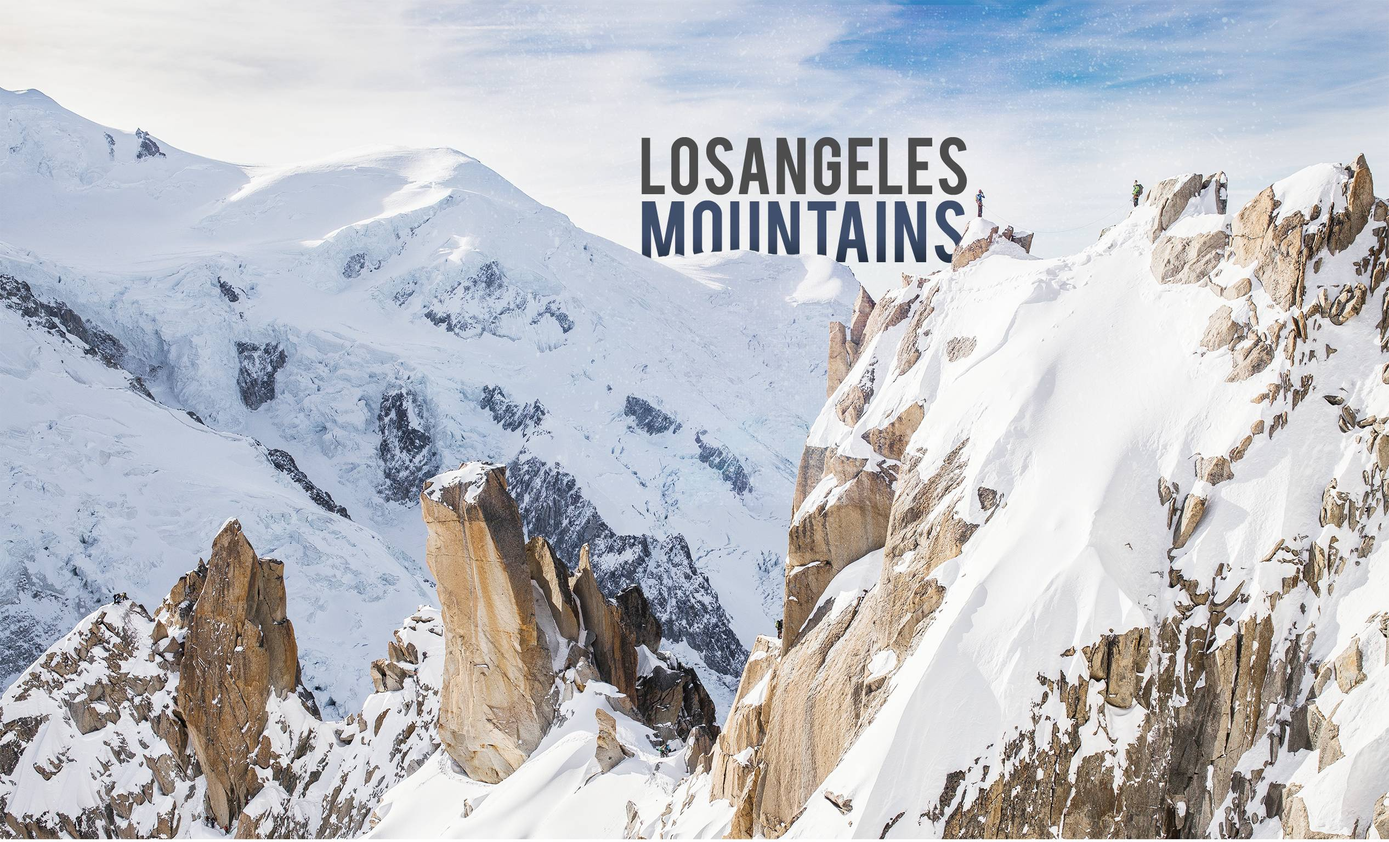
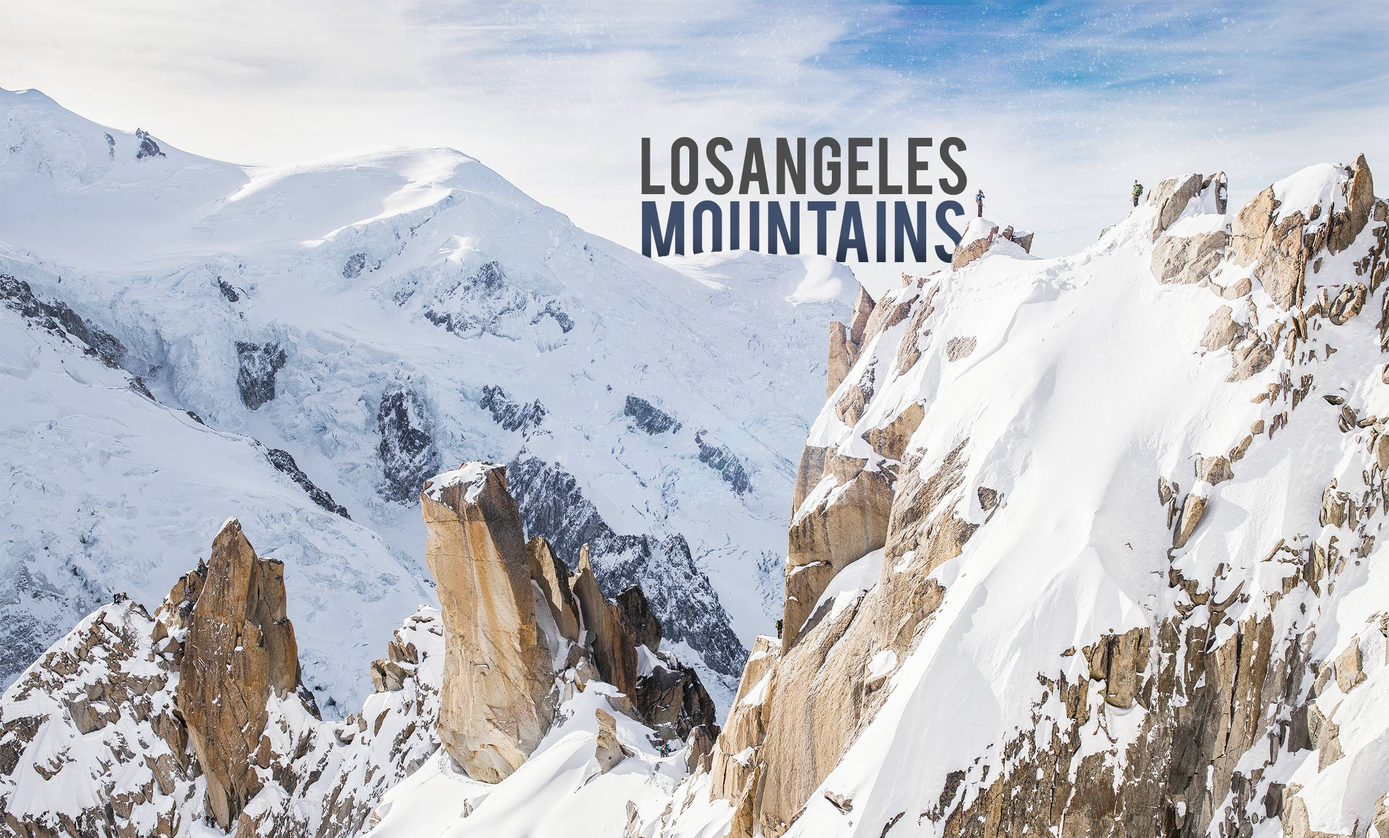
added: background img and hero section

diff --git a/style.css b/style.css
@@ -4,12 +4,29 @@
 
 body {
   background-image: url(../images/hero.jpg);
-    padding: 100px;
+    padding: 10px 20%;
     height: 300px;
     background-attachment: fixed;
     background-position: center;
     background-repeat: no-repeat;
     background-size: cover;
+}
+
+.nav-wrapper {
+  display: flex;
+  justify-content: space-between;
+  align-items: center;
+}
+
+.links-wrapper {
+    display: flex;
+    justify-content: space-between;
+    align-items: center;
+  }
+  
+.nav-link a {
+  color: white;
+  text-transform: uppercase;
 }
 
 #logo {

diff --git a/index.html b/index.html
@@ -16,9 +16,18 @@
       <div class="top-logo">
         <img id="logo" src="images/logo.jpg" alt="logo">
       </div>
-    </div> 
-    <div class="nav-link">01. history</div>
-    <div class="nav-link">02. team</div>
+    </div>
+
+    <div class="right-column">
+      <div class="links-wrapper">
+        <div class="nav-link">
+          <a href="about.html">01. history</a>
+        </div>
+        <div class="nav-link">
+          <a href="about.html">02. team</a>
+        </div>
+      </div>
+    </div>
   </div>
 </body>
 </html>
